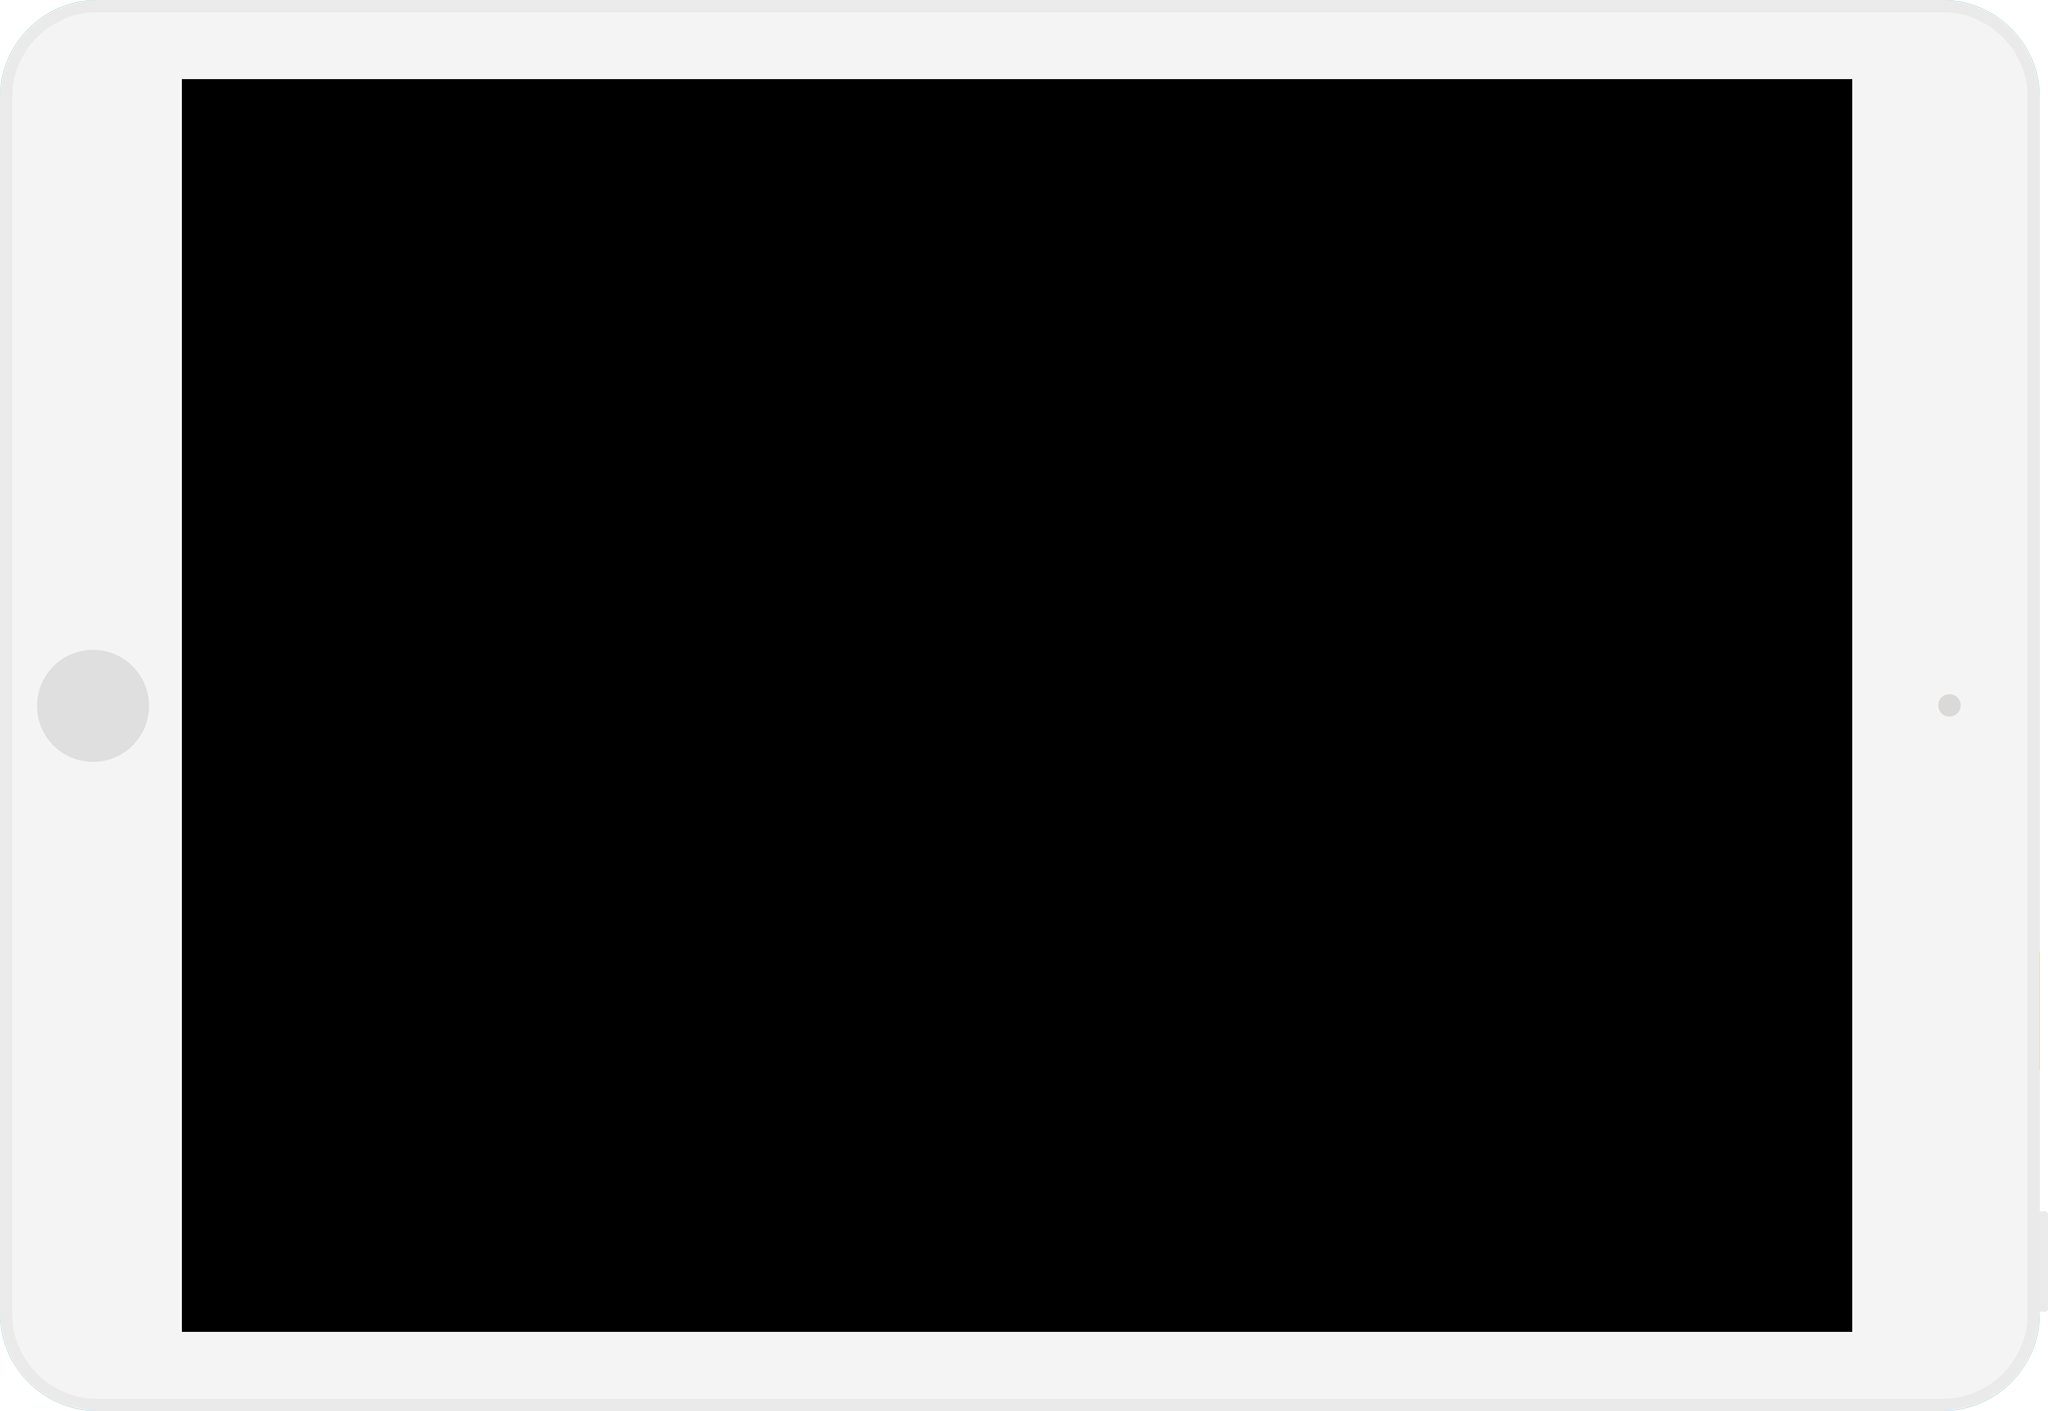
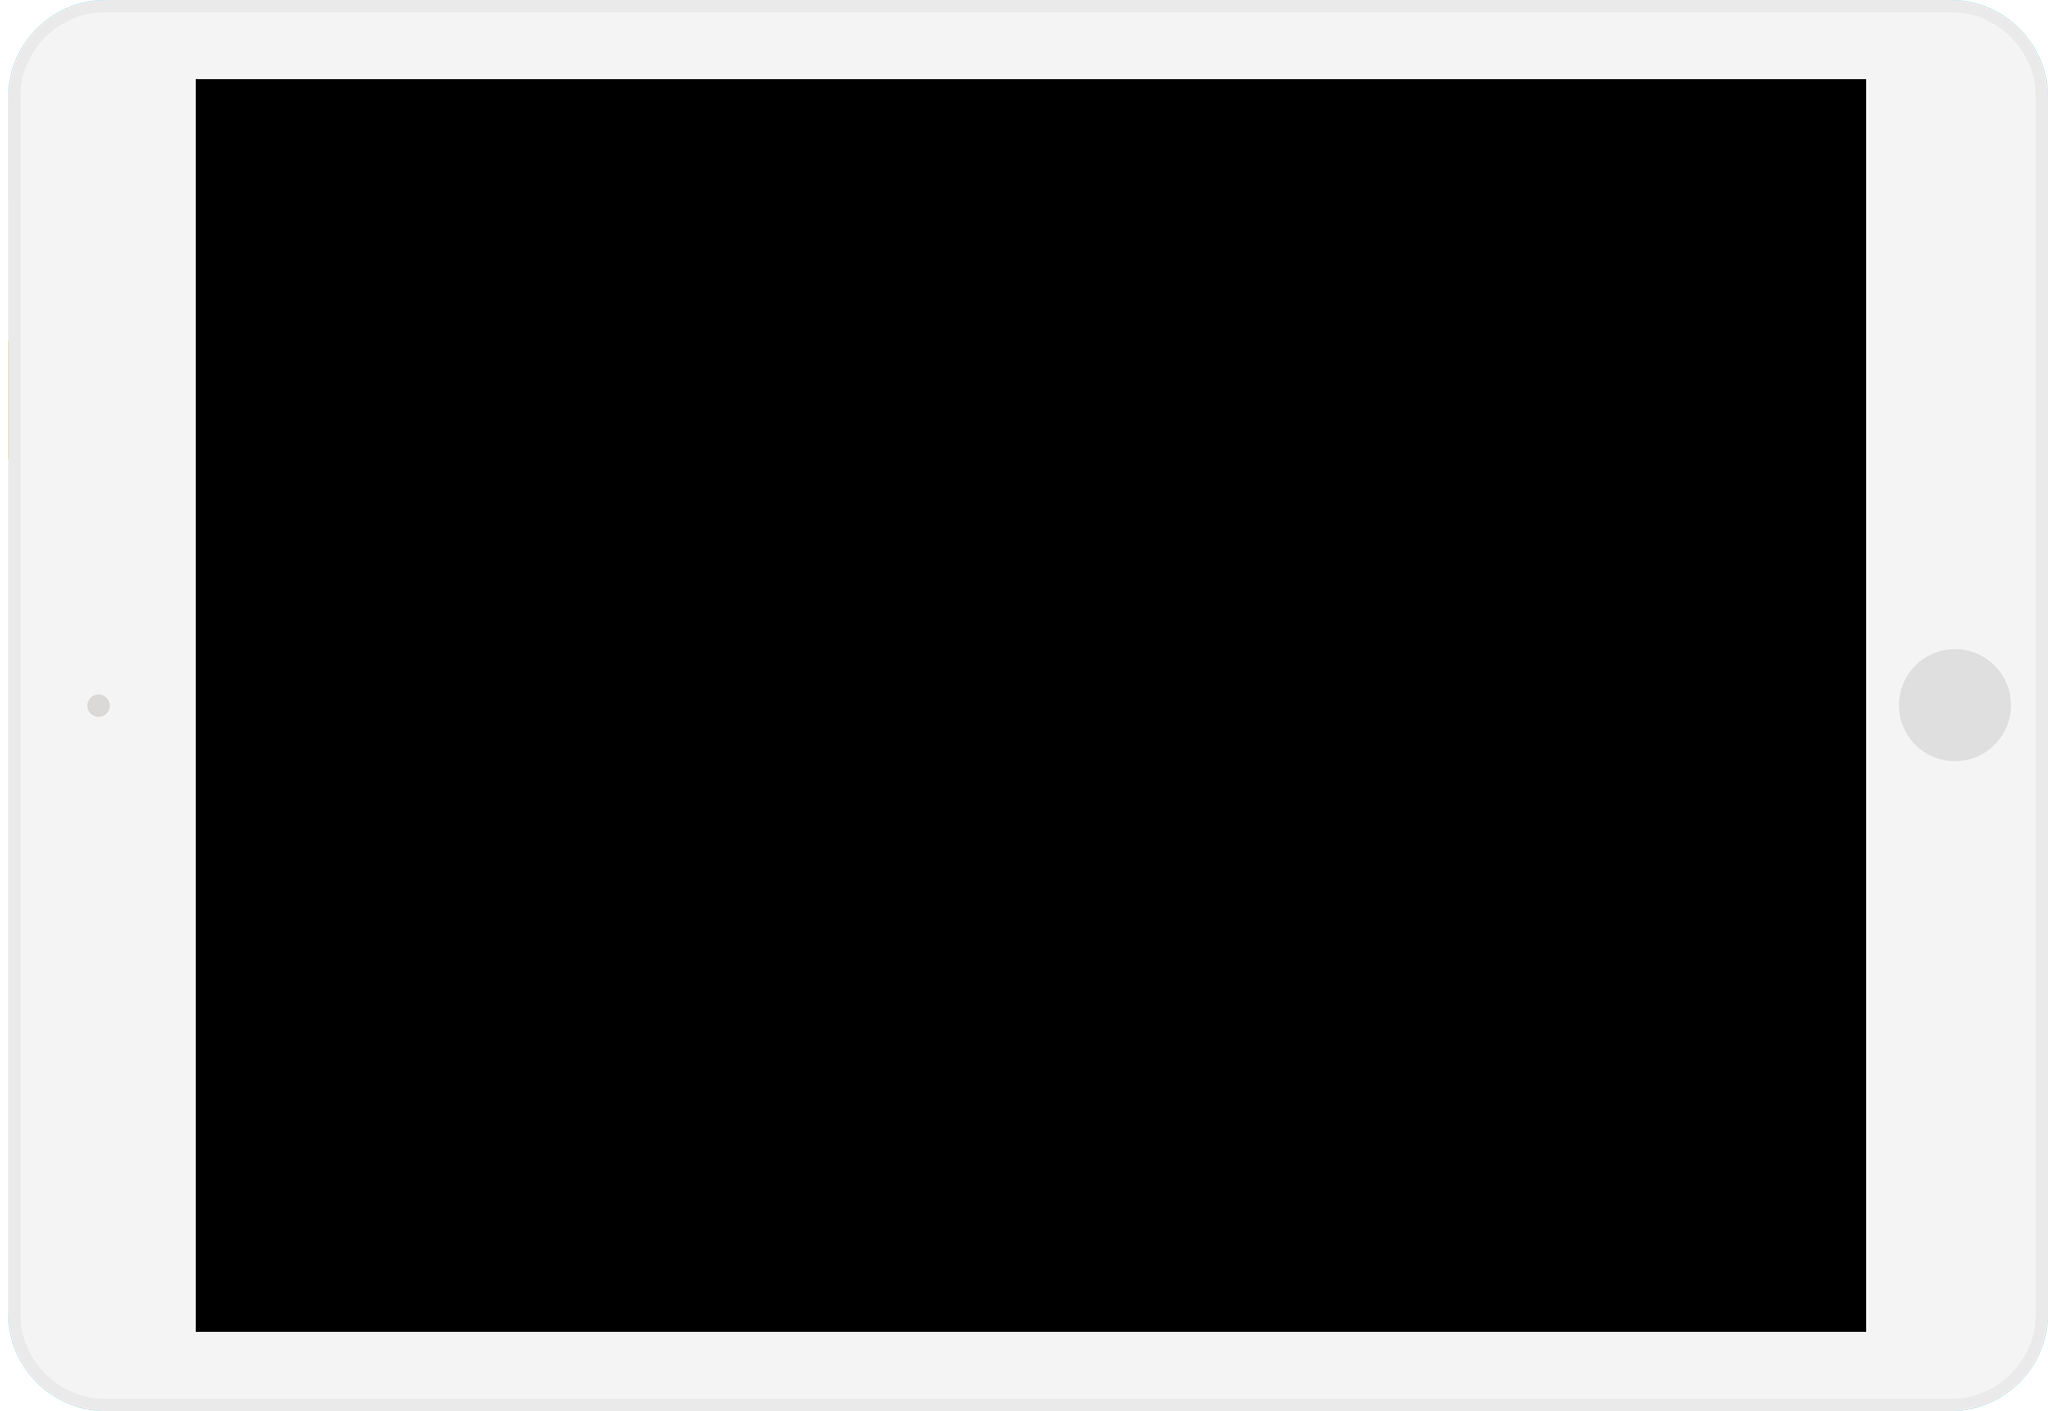
Updated for Sidepic launch.

diff --git a/index.html b/index.html
@@ -1,15 +1,15 @@
 <!doctype html>
 <html lang="en">
 <!--
-    _                  __                      _            
-   (_)                / _|                    | |           
-    _  __ _ _ __ ___ | |_ ___  _   _ _ __   __| |_ __ _   _ 
-   | |/ _` | '_ ` _ \|  _/ _ \| | | | '_ \ / _` | '__| | | |
-   | | (_| | | | | | | || (_) | |_| | | | | (_| | |  | |_| |
-   | |\__,_|_| |_| |_|_| \___/ \__,_|_| |_|\__,_|_|   \__, |
-  _/ |                                                 __/ |
- |__/                                                 |___/ 
-
+|     _                  __                      _            
+|    (_)                / _|                    | |           
+|     _  __ _ _ __ ___ | |_ ___  _   _ _ __   __| |_ __ _   _ 
+|    | |/ _` | '_ ` _ \|  _/ _ \| | | | '_ \ / _` | '__| | | |
+|    | | (_| | | | | | | || (_) | |_| | | | | (_| | |  | |_| |
+|    | |\__,_|_| |_| |_|_| \___/ \__,_|_| |_|\__,_|_|   \__, |
+|   _/ |                                                 __/ |
+|  |__/                                                 |___/ 
+| 
 -->
 <head>
 
@@ -17,7 +17,7 @@
 	<meta http-equiv="X-UA-Compatible" content="IE=edge,chrome=1">
 	<meta name="viewport" content="width=device-width, initial-scale=1.0, maximum-scale=1">
 
-	<title>JAM Foundry</title>
+	<title>JAM Foundry &mdash; Home of Sidepic App</title>
 	
 	<link rel="stylesheet" href="https://maxcdn.bootstrapcdn.com/bootstrap/3.2.0/css/bootstrap.min.css">
 	<link rel="stylesheet" href="https://maxcdn.bootstrapcdn.com/bootstrap/3.2.0/css/bootstrap-theme.min.css">
@@ -54,13 +54,20 @@
 <div class="row">
 	<div class="col-md-1"></div>
 	<div class="col-md-10 text-center">
-		<div class="ipad"></div>
-		<h1>Take a look at Photobox.</h1>
+		<div class="ipad"><img src="img/ipad-photo-grid.jpg"></div>
+		<h1>Enjoy pics on the side</h1>
 		<p>
-			Photobox is a virtual shoebox for your photos — use it to store pictures on your iPhone or iPad
-			that are kept separate from your photo library. Photobox is perfect for
-			work photos, screenshots, semi-private images, and anything else you don’t want lumped in
-			with the built-in Photos app.
+			<b>Sidepic</b> stores images separate from your main photo library.
+		</p>
+		<p>
+			It’s perfect for photos you don’t want cluttering your main photo library.
+			Like pics you don’t want synced by the Photos app, images you gather from the web,
+			or any other photos you want to keep separate. Sidepic stores photos on your
+			device so they are always available, just off to the side.
+		</p>
+		<p>
+			Sidepic is coming soon to the App Store.
+			<!-- Sidepic is <u>available on the App Store</u> for iPhone and iPad. -->
 		</p>
 	</div>
 	<div class="col-md-1"></div>
@@ -75,24 +82,26 @@
 		<p class="feature-circle" style="background-image:url(/img/import.jpg)"><span></span></p>
 		<h2>Photos App Friendly</h2>
 		<p>
-			Photobox can import pictures from your Photos app,
-			and export them back to your photo library, too.
+			Import pictures from the Photos app
+			to save a copy in Sidepic. You can also export
+			from Sidepic back to the Photos app.
 		</p>
 	</div>
 	<div class="col-md-4 text-center">
 		<p class="feature-circle" style="background-image:url(/img/paste.jpg)"><span></span></p>
 		<h2>Paste Like a Pro</h2>
 		<p>
-			Any pictures you’ve copied to the clipboard from
-			another app can be pasted and saved into Photobox.
+			Copy an image to the clipboard from another app,
+			then just paste it into Sidepic as a new photo.
 		</p>
 	</div>
 	<div class="col-md-4 text-center">
 		<p class="feature-circle" style="background-image:url(/img/itunes.png)"><span></span></p>
 		<h2>In Tune with iTunes</h2>
 		<p>
-			Connect your iPhone or iPad to iTunes, then easily
-			drag and drop photos directly into Photobox.
+			Connect your iPhone, iPad, or iPod Touch to iTunes,
+			then drag and drop JPG, PNG, or other supported images
+			directly to Sidepic.
 		</p>
 	</div>
 </div>
@@ -104,11 +113,15 @@
 <div class="row">
 	<div class="col-md-2"></div>
 	<div class="col-md-4 text-right">
-		<h2>Save from Any App</h2>
-		<p>You can use any app that supports iOS actions to send photos directly to Photobox. Just tap the standard share button and choose “Save to Photobox.”</p>
+		<h2 class="no-top-margin">Save from Any App</h2>
+		<p>
+			You can send photos to Sidepic from any app that supports iOS actions.
+			Just tap the share button and look for “Save&nbsp;to&nbsp;Sidepic”
+			in the row of gray buttons.
+		</p>
 	</div>
 	<div class="col-md-4">
-		<div class="iphone"></div>
+		<div class="iphone"><img src="img/sidepic-action-extension.jpg"></div>
 	</div>
 	<div class="col-md-2"></div>
 </div>
@@ -120,11 +133,64 @@
 <div class="row">
 	<div class="col-md-2"></div>
 	<div class="col-md-4 text-right">
-		<div class="iphone"></div>
+		<div class="iphone"><img src="img/sidepic-ui-modern-simple.jpg"></div>
 	</div>
 	<div class="col-md-4">
-		<h2>Modern and Minimal</h2>
-		<p>Photobox is built for iOS 8 and up, featuring a simple interface that keeps the focus on your photos.</p>
+		<h2 class="no-top-margin">Modern and Minimal</h2>
+		<p>
+			Sidepic is built for iOS 8 and up, featuring a simple and intuitive design.
+			From the basic black background to a full-screen viewing option,
+			Sidepic keeps the focus where it belongs: your photos.
+		</p>
+	</div>
+	<div class="col-md-2"></div>
+</div>
+</div>
+</section>
+
+<section class="padded light">
+<div class="container">
+<div class="row">
+	<div class="col-md-2"></div>
+	<div class="col-md-8 text-center">
+		<h2>Sidepic Does All This</h2>
+		<p>Import pictures from your Photos library.</p>
+		<p>Paste a photo from the clipboard.</p>
+		<p>Add photos via iTunes when connected to your Mac or PC.</p>
+		<p>Save to Sidepic from apps that support iOS image share actions.</p>
+		<p>Export photos back to the Photos app.</p>
+		<p>Share photos using iOS share actions.</p>
+		<p>Swipe through photos to view them, similar to the Photos app.</p>
+		<p>While viewing a photo, single-tap for full-screen viewing.</p>
+		<p>While viewing a photo, double-tap or pinch to zoom and scale.</p>
+		<p>Delete multiple photos (from the grid) or single photos (when viewing).</p>
+		<p>Looks great in both landscape and portrait orientations.</p>
+	</div>
+	<div class="col-md-2"></div>
+</div>
+</div>
+</section>
+
+<section class="padded faq">
+<div class="container">
+<div class="row">
+	<div class="col-md-2"></div>
+	<div class="col-md-8 text-center">
+		<h2>Any Questions?</h2>
+		<p>Still wondering about Sidepic? Check out these answers to some common questions.</p>
+		<dl>
+			<dt>Does Sidepic password-protect photos?</dt>
+			<dd>No. Sidepic is not intended to hide photos or keep secrets. It’s not password-protected, disguised as a fake app, or anything else sneaky. It’s just a simple and convenient way to keep photos separate from the Photos app.</dd>
+			<dt>How does Sidepic organize my photos?</dt>
+			<dd>Sidepic stores photos as one big collection of pictures, ordered by the date they were added. The newest photos are at the bottom.</dd>
+			<dt>How do I use the Save to Sidepic feature?</dt>
+			<dd>First, make sure you’re using another app that supports sharing images — it won’t work if the app shares links or other kinds of content. If you see the standard iOS action for saving an image (to your Photos app) then saving to Sidepic will also work. Swipe the row of gray buttons so you can see the right-most “More” button. Tap “More” and turn on the Save to Sidepic action. You can also reorder the actions to move Save to Sidepic higher in the list.</dd>
+		</dl>
+		<br>
+		<p>
+			Need help? 
+			Send us a note at <a href="mailto:support@jamfoundry.com">support@jamfoundry.com</a>.
+		</p>
 	</div>
 	<div class="col-md-2"></div>
 </div>
@@ -136,8 +202,9 @@
 <div class="container">
 <div class="row">
 	<div class="col-md-12 text-center">
-		<h2>Say Hello</h2>
-		<p>hello@jamfoundry.com</p>
+		<p>&nbsp;</p>
+		<p>JAM Foundry apps are made with pride in San Francisco.</p>
+		<p>&nbsp;</p>
 	</div>
 </div>
 </div>

diff --git a/css/jam.css b/css/jam.css
@@ -11,7 +11,7 @@ section.padded {
 	padding-bottom: 3em;
 }
 section.light {
-	background-color: #f6f6f6;
+	background-color: #f3f3f3;
 }
 section.dark {
 	background-color: black;
@@ -22,6 +22,12 @@ h2 {
 	font-family: "Roboto Slab", serif;
 	font-size: 125%;
 }
+
+a:hover {
+	text-decoration: none;
+}
+
+.no-top-margin { margin-top: 0; }
 
 .navbar-default {
 	background: rgba(0,0,0,0);
@@ -87,7 +93,7 @@ h2 {
 	position: relative;
 	background: #5bf;
 	color: white;
-	padding-top: 5em;
+	padding-top: 4em;
 	padding-bottom: 4em;
 }
 
@@ -105,12 +111,14 @@ h2 {
 
 .splash h1 {
 	font-family: "Roboto Slab", serif;
-	font-size: 4em;
+	font-size: 3em;
 	font-weight: 700;
+	margin: 0.5em 0 0.5em 0;
 }
 .splash p {
 	font-family: "Roboto Slab", serif;
 	font-size: 120%;
+	margin: 0 0 0.5em;
 }
 
 .splash .ipad {
@@ -120,6 +128,12 @@ h2 {
 	background-repeat: no-repeat;
 	background-size: contain;
 	padding-top: 69%;
+}
+.splash .ipad img {
+	position: absolute;
+	top: 5.6%;
+	left: 9.476%;
+	width: 81.54%;
 }
 
 .feature-circle {
@@ -143,4 +157,38 @@ h2 {
 	background-repeat: no-repeat;
 	background-size: contain;
 	padding-top: 50%;
+}
+.iphone img {
+	position: absolute;
+	top: 7%;
+	left: 11.5%;
+	width: 77%;
+}
+
+section.faq {
+	background-color: #3c7eaa;
+	color: white;
+}
+
+.faq dt {
+	cursor: pointer;
+	font-weight: normal;
+	margin-top: 0.5em;
+}
+.faq dd {
+	height: 0;
+	max-height: 0;
+	overflow: hidden;
+	transition: max-height 1s ease-in;
+}
+.faq dt.active + dd {
+	height: auto;
+	max-height: 10em;
+}
+.faq a {
+	border-bottom: white 1px dotted;
+	color: white;
+}
+.faq a:hover {
+	border-bottom-style: solid;
 }

diff --git a/js/jam.js b/js/jam.js
@@ -22,4 +22,8 @@ $(document).ready(function(){
 		$(this).addClass("animated fadeInDown");
 	}, {offset: "80%"});
 	
+	$(".faq").on("click", "dt", function(e){
+		$(this).toggleClass("active");
+	});
+	
 });
